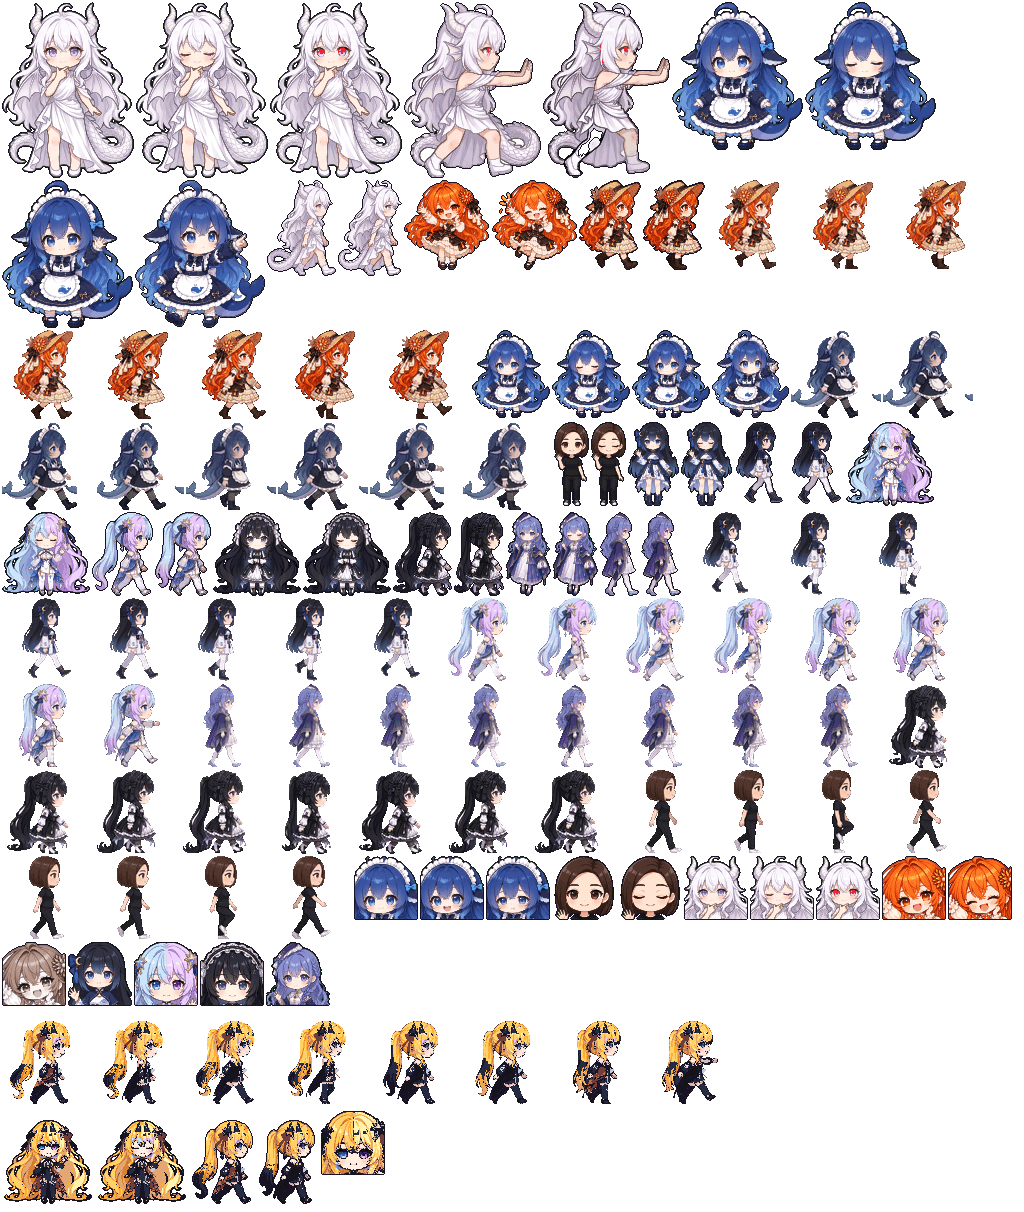
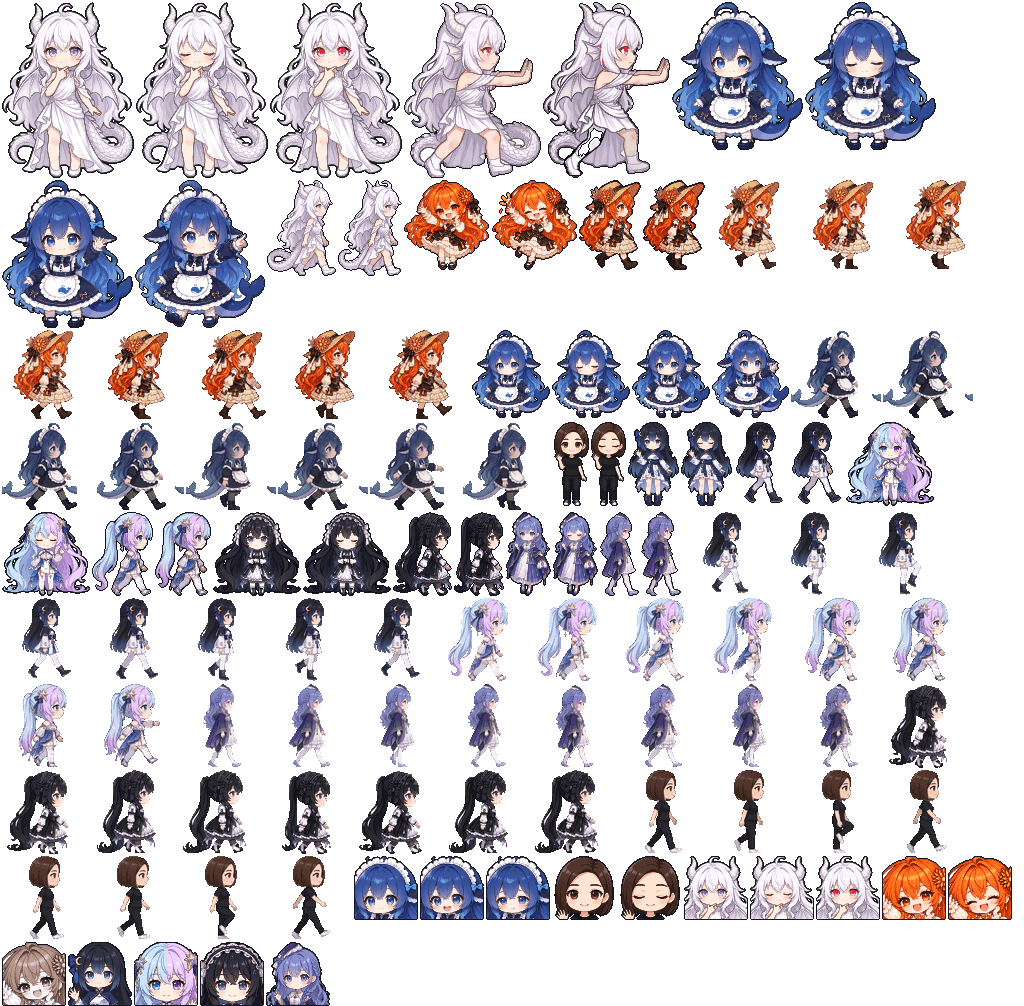
删掉 Grok 的造型：图集里那 13 格是 Gemini 换色派生的，成片尺寸下发糊
一次渲染截图里量过：正面/侧身 88×93 的格子放到 1280×720 的画面里，角看着像发梢、
斧形腰饰是一枚六个像素的小色块，认出是 Grok 全靠金发。整格重看一遍像「Gemini 换了衣服」，
于是把整套派生造型从这里撤掉，她的文字设定保留。

- 图集：删掉 grok_front_0/1、grok_side_0/1、walk_grok_0–7、p_grok 共 13 格，
  1024×1212 → 1024×1006，121 格 → 108 格；`npm run atlas:check` 逐字节校验通过
- 派生链：删 bake_grok.mjs 与 grok_data.js，bake_atlas.mjs 去掉对应的 import
- 引擎：CharId / CAST_SETS / SPEAKER_NAME / SPEAKER_PORTRAIT / film.mjs 的 CAST 去掉 grok；
  cast.test 的格数断言 121 → 108
- 文档：Grok 页第 2、4、9、10、11 节改写为「没有造型格，上不了画面」；总纲、设定索引、备选池
  （原 A1–A4 换成一条「整套造型待重做」）、番外MV 人物设定与设定表、素材许可、README 同步
- 角色预检复核：《童话镇》8 个角色 84 格、40 镜 4272 帧逐帧走过，没有点到不存在的格子

diff --git a/通用模板/engine/actors.ts b/通用模板/engine/actors.ts
@@ -1,4 +1,4 @@
-// 角色卡片：项目自带的九位轻像素角色（源数据在 通用模板/cast/source/sprites_data.js，烘焙成 assets/cast_atlas.png）
+// 角色卡片：项目自带的八位轻像素角色（源数据在 通用模板/cast/source/sprites_data.js，烘焙成 assets/cast_atlas.png）
 // 作为「3D 世界里的 2D 纸片」。对应 claude-animated-shorts 的 cast.ts / cardshade.ts：
 //   · 始终面向相机的 billboard，不进世界墨线
 //   · 受场景光染色（card tint），不自发光
@@ -17,7 +17,7 @@ import atlasJson from './assets/cast_atlas.json';
 import { FPS } from './timeline';
 import { rgb } from './kit';
 
-export type CharId = 'whale' | 'gpt' | 'claude' | 'doubao' | 'gemini' | 'kimi' | 'qwen' | 'zai' | 'grok';
+export type CharId = 'whale' | 'gpt' | 'claude' | 'doubao' | 'gemini' | 'kimi' | 'qwen' | 'zai';
 export type Wear = 'crown' | 'hood' | 'tophat' | 'bow' | 'tiara' | 'ears' | 'tail';
 type Rect = [number, number, number, number];
 interface Anchor { cx: number; top: number; hw: number }
@@ -136,7 +136,6 @@ export const CAST_SETS: Record<CharId, { walk: string; front: [string, string] }
   gemini: { walk: 'walk_gemini_', front: ['gemini_front_0', 'gemini_front_1'] },
   qwen: { walk: 'walk_qwen_', front: ['qwen_front_0', 'qwen_front_1'] },
   zai: { walk: 'walk_zai_', front: ['zai_front_0', 'zai_front_1'] },
-  grok: { walk: 'walk_grok_', front: ['grok_front_0', 'grok_front_1'] },
   doubao: { walk: 'walk_doubao_big_', front: ['doubao_cage_0', 'doubao_cage_1'] },
   gpt: { walk: 'gpt_fly_', front: ['gpt_boss_idle', 'gpt_boss_blink'] },
 };

diff --git a/通用模板/engine/project.ts b/通用模板/engine/project.ts
@@ -46,11 +46,11 @@ export interface ProjectDef {
 }
 
 export const SPEAKER_NAME: Record<CharId, string> = {
-  whale: '鲸鱼娘', gpt: 'GPT 龙娘', claude: 'Claude 大小姐', doubao: '豆包', gemini: 'Gemini', kimi: 'Kimi', qwen: '千问', zai: '智谱', grok: 'Grok',
+  whale: '鲸鱼娘', gpt: 'GPT 龙娘', claude: 'Claude 大小姐', doubao: '豆包', gemini: 'Gemini', kimi: 'Kimi', qwen: '千问', zai: '智谱',
 };
 /** 对话条默认头像（图集里的 64×64 头像格） */
 export const SPEAKER_PORTRAIT: Record<CharId, string> = {
-  whale: 'p_whale_neutral', gpt: 'p_gpt_neutral', claude: 'p_claude_neutral', doubao: 'p_doubao_neutral', gemini: 'p_gemini', kimi: 'p_kimi', qwen: 'p_qwen', zai: 'p_zai', grok: 'p_grok',
+  whale: 'p_whale_neutral', gpt: 'p_gpt_neutral', claude: 'p_claude_neutral', doubao: 'p_doubao_neutral', gemini: 'p_gemini', kimi: 'p_kimi', qwen: 'p_qwen', zai: 'p_zai',
 };
 
 /** 这部作品在画面上（字幕条、名牌、片名卡、片尾字）会出现的全部文字，带出处。镜头自己往 Canvas 上画的字不在这里，由预检另外收集 */

diff --git a/设定/人物/Grok.md b/设定/人物/Grok.md
@@ -3,7 +3,7 @@
 > **一句话**：先戳破借口，再动手；人已经难受时，玩笑停。
 > 这是她一个人的设定页。共用规矩：[`../AI娘设定总纲.md`](../AI娘设定总纲.md)。
 > 出处：研究原文第 2、3、10.2、11、13.2 节。ⓡ 现实机制 / ⓒ 社区归纳 / ⓞ 本系列原创。
-> **她有造型格了（2026-11-11 补齐）：金发、黑礼服、头顶两只角、腰上一枚斧形小饰。** 能上画面，但只当配角——来查证的人，不是主角、不是公主、不是反派主力。
+> **她目前没有可上画的造型。** 2026-11-11 曾用 Gemini 的格换色派生过一套（金发、黑礼服、角、斧形腰饰），放到成片尺寸上发糊、认不出，2026-11-12 已连同派生脚本从图集里删掉。现在只能写进文字设定，不能上画面。
 
 ## 1. 她是谁（ⓞ）
 
@@ -17,10 +17,9 @@
 
 - 别名：Grok娘、大小姐（与 Claude 的「大小姐」是两套，别混）。
 - 锚点：金发、黑色礼服、角和斧形装饰；有作品玩「首富爸爸」，那是该作品设定。
-- **图集格子**（`通用模板/engine/assets/cast_atlas.png`）：正面 `grok_front_0/1`、侧身 `grok_side_0/1`、步态 `walk_grok_0–7`、头像 `p_grok`。
-- **怎么来的**：形体借自同项目的 Gemini 格（同一套头身比例），换色成金发与黑礼服，再画上两只角、腰上一枚斧形小饰；生成脚本是 `通用模板/cast/source/bake_grok.mjs`，输出 `grok_data.js`。
-- **头上那 9 行留白是给角的**：她的格子高 93（别人 84 / 90），脚底基线不变，站在一起不会显高。
-- 配色口径：头发从 `#733e39` 到 `#fff3b0` 的六七档金色；礼服压到 `#141318`–`#3a4466` 的近黑四档；眼睛与皮肤沿用原格。
+- **图集里没有她的格**：2026-11-12 删掉了此前那 13 格（正面两格、侧身两格、八帧步态、头像一格），图集现在是八位角色、一〇八格。
+- **删掉的原因**：那套格是从 Gemini 的格换色派生的——形体借别人的，只换了发色与礼服色，再补两只角和一枚六像素的斧形腰饰；放到成片尺寸上是一团糊，角像发梢、斧头认不出来，站在真角色旁边像同一个人换了件衣服。
+- **要让她上画面**，得真画一套：同一套头身比例、八帧步态、正面两格、头像一格，按像素手绘后再进图集。这件事记在 `设定/备选池.md` 的 A1。
 
 ## 3. 习性：机制变道具（ⓡ → ⓞ）
 
@@ -33,9 +32,9 @@
 ## 4. 道具与动作
 
 - 手机、便签、放大镜、更正贴纸；腰上那枚**斧形小饰**是造型的一部分，不是武器（画面红线：斧头不当暴力）。
-- 能演的动作：`.front()` 待机（两格眨眼）、`.set('grok_side_0')` 侧身回望（引擎没有 `.side()` 这个快捷方法）、`.walkX()` 走过去问话、`.lift()` / `.tilt()` 起哄。
-- 造型预览：[`Grok-造型预览.png`](Grok-造型预览.png)（左边 Gemini 原格，右边 Grok 的 13 格，同一比例）。
-- **没有**的：坐下、递东西、指人、开合手机这一类的专属格；要演就换说法或换人，别在镜头里硬抖。
+- 现在一条都演不了：没有造型格，引擎里也没有 `grok` 这个角色 id（2026-11-12 一起删了）。
+- **没有**的：待机、眨眼、侧身、步态、头像，全都没有——不是缺几格，是整套没有。
+- 要拍「来查证的人」这条线，现阶段的做法是让别的角色代演（本鲸念到「网上有人说」、Kimi 要来源），或者先按上一节把造型画出来。
 
 ## 5. 说话
 
@@ -66,16 +65,16 @@
 
 ## 9. MV 线能演什么
 
-- 有造型格了，但两支现成 MV 都没给她留位置。要用她：先让她在 MV 里有一个「谁」的回答（来查证的人 / 报幕 / 递话的），再写 `shots/`。
-- 上画面的规矩：不戴冠、不站 C 位、不做主角的定型动作；一场最多两镜，多了就变成抢戏。
+- **现在上不了画面**：没有造型格，`shots/` 里写 `cast: 'grok'` 会在开渲前的预检里直接报错（这是对的）。
+- 真有了造型再谈用法：先回答她在这一支里「是谁」（来查证的人 / 报幕 / 递话的），再写镜头；不戴冠、不站 C 位、不做主角的定型动作；一场最多两镜。
 
 ## 10. 不许写成
 
 - 嘴臭当人设；斧头当暴力；把刻薄当永远正确。
 - 默认和龙娘是一对。
 - 报价格、报排名；把「所有人都重置了」当事实。
-- 给她临时加造型格、加生图（要改形象就改 `通用模板/cast/source/bake_grok.mjs` 再重建图集，不许拿生图直接贴进来）。
+- 拿生图直接贴进图集当造型（要上画面就按第 2 节手绘一套格，重建图集）。
 
 ## 11. 来源
 
-研究原文第 2 节（别名与反差）、第 3 节（查证与锐评）、第 10.2 节（不编第重置时钟）、第 11 节（习性卡与示例台词）、第 12.3 节（「记者的更正贴纸」这一原创提案）、第 13.2 节（出身：报刊亭）。造型格来源见 [`素材许可与来源.md`](../../素材许可与来源.md)：由 Gemini 格派生，上游那条「未核」同样适用。
+研究原文第 2 节（别名与反差）、第 3 节（查证与锐评）、第 10.2 节（不编第重置时钟）、第 11 节（习性卡与示例台词）、第 12.3 节（「记者的更正贴纸」这一原创提案）、第 13.2 节（出身：报刊亭）。造型部分见 [`素材许可与来源.md`](../../素材许可与来源.md)：2026-11-12 起图集里没有她的格。

diff --git a/设定/备选池.md b/设定/备选池.md
@@ -2,7 +2,7 @@
 
 > 想说但这一轮没做的事，全放这里，一条一行，写清楚「是什么 / 为什么先不做 / 真要做第一步动哪里」。
 > 立这份的原因是：讨论里冒出来的想法，如果只留在对话里，下一轮就没了。
-> 最后更新 2026-11-11（补 Grok 造型格那一轮）。
+> 最后更新 2026-11-12（撤掉 Grok 那套派生造型）。
 
 ## 使用规矩
 
@@ -17,13 +17,10 @@
 
 | # | 是什么 | 为什么先不做 | 真要做，第一步 |
 | --- | --- | --- | --- |
-| A1 | **Grok 的角再立体一点**：现在是小面积的深色角，远看像发梢；想要更明确的轮廓 | 已上图的版本在成片尺寸下能认出来，够用；再改要重烘图集 | 改 `通用模板/cast/source/bake_grok.mjs` 里的 `HORN_ROWS` 加宽一档，跑 `npm run atlas` 后肉眼看静帧 |
-| A2 | **Grok 的斧形腰饰**：现在是一枚 6×6 的小饰，静帧里几乎看不出是斧头 | 太小反而像杂点，宁可先留一枚「暗号」 | 同上，把 `axe` 那一段放大到 8×8 并换更亮的钢色 |
-| A3 | **Grok 的眼睛换色**：现在沿用 Gemini 的异色瞳（一蓝一紫） | 异色瞳好看，且改眼睛最容易毁脸 | 在 `bake_grok.mjs` 里把眼睛块按原明度套琥珀色（`#733e39` / `#feae34` / `#ffd166`） |
-| A4 | **Grok 的第二个头像格**：`p_grok_doubt`（狐疑）/ `p_grok_fix`（贴更正贴纸） | 名片位一集只露一次，一张够用 | 从 `p_grok` 派生，改眉眼与嘴角 |
+| A1 | **Grok 的整套造型**：她现在是有设定页、没有造型格的唯一一人 | 2026-11-12 把此前那 13 格（从 Gemini 的格换色派生）删了：成片尺寸下发糊，角像发梢、斧形腰饰看不出来，站在真角色旁边像换了衣服的同一个人 | 不再派生：按同一套头身比例手绘正面两格、侧身两格、八帧步态、头像一格，照 `cast/source/sprites_data.js` 的格式写进去，更新坐标表，跑 `npm run atlas` |
 | A5 | **每个角色的 6 段专属动作格**（7in1 的 `专属-*`，见 `动作库.md` 第二节末行） | 7 个角色 × 6 段 = 42 格，等于重做一遍角色图集 | 先挑一个角色、一段动作做样张，验证「同一套比例能画出来」再谈批量 |
 | A6 | **GLM（智谱）/ Qwen / Kimi 的招牌动作格**：现在三人只有待机 + 侧身 + 步态 | 同上，缺的是画格的人手，不是脚本 | 从 `zai_*` 里挑一格改成「举牌 / 翻书」，只做一格当试验 |
-| A7 | **图集扩容方案**：现在 1024×1212、121 格，底部已经到 1206，再加格就得继续加高 | 还没到撑爆的时候（一张 4 MB 级别的 PNG，显存无压力） | 记一条：单张超过 2048 高时改两张图集，`actors.ts` 的 `loadAtlas()` 要跟着改成多图 |
+| A6 | **图集扩容方案**：现在 1024×1006、一〇八格，底部已经到 1000，再加格就得继续加高 | 还没到撑爆的时候（一张 4 MB 级别的 PNG，显存无压力） | 记一条：单张超过 2048 高时改两张图集，`actors.ts` 的 `loadAtlas()` 要跟着改成多图 |
 
 ## B. 动作与道具（成片层）
 

diff --git a/番外MV/人物设定.md b/番外MV/人物设定.md
@@ -21,7 +21,7 @@
 | `doubao` | 豆包 / Seed | 产品原有形象与娘化分支并存 | 先陪着写出开头，再问要不要继续 | [`豆包.md`](../设定/人物/豆包.md) | 小红帽／红舞鞋 |
 | `qwen` | 千问 / 千姐 | 中式服装、扇子 | 先排哪一步，再动手 | [`千问.md`](../设定/人物/千问.md) | 疯帽子 |
 | `zai` | 狐狸 / 智谱 GLM | 黑发狐耳、黑白服装，部分版本带书或眼罩 | 先写完成标准，再做最小的一版 | [`狐狸.md`](../设定/人物/狐狸.md) | 彼得潘／杰克／侏儒怪 |
-| `grok` | Grok | 金发、黑色礼服、角与斧形装饰 | 先戳破借口，再动手；人已经难受时，玩笑停 | [`Grok.md`](../设定/人物/Grok.md) | 没上场（2026-11-11 才补造型格；要用她先在第 4 节那张空表里填形象） |
+| —（无造型格） | Grok | 金发、黑色礼服、角与斧形装饰（只写在设定里，画面上还没有） | 先戳破借口，再动手；人已经难受时，玩笑停 | [`Grok.md`](../设定/人物/Grok.md) | 没上场（造型 2026-11-12 撤下：图集里没有她的格，暂时上不了画面） |
 
 > 「基米／哈基米」是 Gemini 猫的二创叫法；**Kimi 是另一个人**，不许按谐音合并。ⓒ
 
@@ -109,14 +109,14 @@
 - **MV 用法**：彼得潘／杰克／侏儒怪这类「要算对账」的角色最适合她。
 - **边界**：**不为任何厂商编造精确的重置时间**；GLM 的国内价目本轮只有二手线索。
 
-### 2.9 Grok · `grok`
+### 2.9 Grok（暂无造型格）
 
 - **习性**：一有新消息就掏手机，发布前翻开来源卡；说错了把「未经确认」贴回自己额头。ⓒ→ⓞ
 - **道具**：手机、便签、放大镜、来源卡。
 - **跟谁有戏**：锐评龙姐和小克，也允许她们纠正自己；跟龙姐的关系可以是对手，也可以是好友。ⓒ
 - **台词**：「这个消息很劲爆——等一下，先让我看看是谁说的。」
 - **身世（ⓞ）**：信息嘈杂的报刊亭里长大，爱抢先抖机灵，后来学会给每条消息贴来源。
-- **MV 用法**：她只当配角——来查证的人；不戴金冠、不站 C 位、不当反派主力。造型 2026-11-11 才补齐（`通用模板/cast/source/bake_grok.mjs` 从 Gemini 格派生）。
+- **MV 用法**：暂时上不了画面——2026-11-12 撤掉了那套由 Gemini 格派生的造型（成片尺寸下发糊），图集里没有她的格。真要拍「来查证的人」，现在让本鲸或 Kimi 代演；等造型重画好再谈不戴金冠、不站 C 位、不当反派主力这些规矩。
 - **边界**：搜索工具可能另外收费；「热点风格」是二创，不保证事实准确。
 
 ## 3. 群像共用的三条表演规则（ⓞ）

diff --git a/设定/动作库.md b/设定/动作库.md
@@ -30,7 +30,7 @@
 | 工作（忙 / 卡 / 认输 / 完成） | `工作状态-忙碌点按`、`-原地踱步张望`、`-垂头叹气冒汗`、`-思考冒泡`、`-清点归档`、`-雀跃庆祝` | 踱步 = 小范围 `walkX` 来回；认输 = 垂头靠 `.tilt()`；庆祝 = `.lift()` + `.flash()`；**思考冒泡、清点归档要气泡或道具，现在没有** |
 | 碎碎念 | `碎碎念-发呆碎碎念`、`-对屏碎碎念`、`-擦桌碎碎念` | `.talk(T, true)` + 对话条；对着屏幕说的那种，机位放她身后 |
 | 额度 / 余额 | `余额-钱袋满溢` … `余额-分文不剩`（六档） | **不能拍钱袋**：画面红线不许余额条。改成米缸深浅、碗里剩多少、饭价牌翻面 |
-| 专属动作 | 每角色 6 段（Grok 是 `专属-X标志`、`专属-坏笑吐槽`、`专属-坐火箭`、`专属-太空漂浮`、`专属-星系`、`专属-黑洞`） | 都没有对应造型格（Grok 那 6 段也没有，她只有待机 / 侧身 / 步态）。真要，先加像素数据重建图集 |
+| 专属动作 | 每角色 6 段（Grok 是 `专属-X标志`、`专属-坏笑吐槽`、`专属-坐火箭`、`专属-太空漂浮`、`专属-星系`、`专属-黑洞`） | 都没有对应造型格（Grok 那 6 段也没有——她 2026-11-12 起连待机 / 侧身 / 步态都没有了）。真要，先加像素数据重建图集 |
 
 ## 三、能直接用现有造型演的
 
@@ -61,4 +61,4 @@
 
 - 动作名清单：`Houraiji9/ai-pet-7in1` 的 `assets/<角色>/webm/` 文件名（112 段，2026-11-11 读）。
 - 只借命名与分组，**没有使用它的任何画面**；它的素材是 CC BY-NC-SA 4.0（非商业），我们的成片不接。
-- 我们的造型格以 `通用模板/README.md`「九位角色与可用造型」为准；图集由 `通用模板/cast/source/` 重建，来源与许可另见 [`素材许可与来源.md`](../素材许可与来源.md)。
+- 我们的造型格以 `通用模板/README.md`「八位角色与可用造型」为准；图集由 `通用模板/cast/source/` 重建，来源与许可另见 [`素材许可与来源.md`](../素材许可与来源.md)。

diff --git a/素材许可与来源.md b/素材许可与来源.md
@@ -9,7 +9,6 @@
 | --- | --- | --- | --- |
 | 引擎 `通用模板/engine`、命令行 `通用模板/cli`、测试、文档 | 本仓库自己写 | 仓库根**没有 LICENSE 文件** | 待定：要发就把许可补上 |
 | 角色像素图集 `通用模板/engine/assets/cast_atlas.png` / `.json` | 由 `通用模板/cast/source/sprites_data.js` 等重建；源数据写着头注释「Source assets: `assets/ai-girls/{full-v9,walk-v14,lyric-action-v13,dance-v11,whale-pet-study}`」——那批原图从来不在本仓库，2026-11-12 整理 MV 分支时连旧存档一起删了（见 `媒体说明.md`） | **未核** | 最重要的待办。见下面第二节 |
-| Grok 的 13 格（`grok_*`、`walk_grok_0–7`、`p_grok`） | 由本仓库的 Gemini 格派生（`通用模板/cast/source/bake_grok.mjs`：换色 + 画角与斧形腰饰），没有引入新素材 | 跟母本同一状况 | 上游那条「未核」同样盖着她 |
 | 字体 站酷快乐体 ZCOOL KuaiLe | `通用模板/engine/assets/fonts/` | **OFL 1.1**（同目录 `OFL-ZCOOLKuaiLe.txt`） | 已明确，可随片分发，保留许可文件 |
 | 《童话镇》原曲录音 | `番外MV/童话镇/素材/童话镇.m4a`（2026-11-12 从原曲 mp4 无损转存的音轨；mp4 已出库） | **无授权记录** | 未核；公开前必须自己确认 |
 | 《反乌托邦》复刻源码 | `参考资料/参考MV/反乌托邦/`（用户 2026-11-12 上传的 `opus5.5max+fable5.2.zip` 原样解开） | 别人写的代码，**没有许可声明**；里面的 `src/mv/assets/song.ts` 还内嵌了这首歌的音轨 | 只当源码备查，不当工程用、也不算参考案例；歌没有授权，成片不许公开 |

diff --git a/设定/AI娘设定总纲.md b/设定/AI娘设定总纲.md
@@ -60,7 +60,7 @@ C 级的具体名单见 `参考资料/项目调研/Agent-Reach研究/ai-girls-re
 ### 编制
 
 - **固定住户三位**：本鲸、笨鱼、老大（第 2 节）。
-- **客人七位**：龙娘、小克、猫、Kimi、狐狸、千问、豆包（第 3 节）。Grok 是第八位客人，2026-11-11 补上了造型格（金发 / 黑礼服 / 角 / 斧形腰饰），现在能上画面了。
+- **客人七位**：龙娘、小克、猫、Kimi、狐狸、千问、豆包（第 3 节）。Grok 是第八位客人。2026-11-11 曾用 Gemini 的格派生过一套造型，成片尺寸下发糊，2026-11-12 已从图集删除；她现在只有文字设定，上不了画面。
 - **一集一张新脸**：Day 线「一天一客」，其余人只在台词里被转述，或出现在纸条、夹页、名牌上。
 - 谁上场要用户点名 + 有获准文件；没有的只许被提到。
 
@@ -107,7 +107,7 @@ C 级的具体名单见 `参考资料/项目调研/Agent-Reach研究/ai-girls-re
 | 狐狸（智谱 GLM） | 先写完成标准，再做最小的一版 | [`人物/狐狸.md`](人物/狐狸.md) |
 | 千问（Qwen） | 先排哪一步，再动手 | [`人物/千问.md`](人物/千问.md) |
 | 豆包（Seed） | 先陪着写出开头，再问要不要继续 | [`人物/豆包.md`](人物/豆包.md) |
-| Grok | 先戳破借口，再动手；人难受时玩笑停。**有造型格了，但只当配角** | [`人物/Grok.md`](人物/Grok.md) |
+| Grok | 先戳破借口，再动手；人难受时玩笑停。**造型已撤，暂时上不了画面** | [`人物/Grok.md`](人物/Grok.md) |
 
 ### 换新客人怎么办
 

diff --git a/番外MV/设定表.md b/番外MV/设定表.md
@@ -3,8 +3,8 @@
 **这条线的设定和 Day 线不是一套。** Day 是这间房里的日常口播；MV 是「这个人在这首歌里演谁」——性格还是那套，但**形象跟着每支 MV 换**。
 
 **一人一页的完整设定在 [`设定/人物/`](../设定/人物/)**（索引 [`设定/README.md`](../设定/README.md)），共用的规矩在 [`设定/AI娘设定总纲.md`](../设定/AI娘设定总纲.md)；九位人物一张汇总表（习性 / 道具 / 关系 / 台词 / 身世 / MV 用法 / 边界）在 [`人物设定.md`](人物设定.md)。这张表只做一件事：**把习性对到每支 MV 的形象上**。
-造型格、头像格的编号见 [`通用模板/README.md`](../通用模板/README.md) 的「九位角色与可用造型」；这里只管人。
-Grok 2026-11-11 才补上造型格，本表里的两支 MV（童话镇、坏女孩）都没有她的位置；要用她，先在第 4 节那张空表里给她填一个形象。
+造型格、头像格的编号见 [`通用模板/README.md`](../通用模板/README.md) 的「八位角色与可用造型」；这里只管人。
+Grok 目前没有可上画的造型（2026-11-11 补过一套派生格，2026-11-12 因为糊撤掉了），本表里的两支 MV（童话镇、坏女孩）都没有她的位置。
 
 **参照哪一支片子**：只有一支——[`童话镇/README.md`](童话镇/README.md)。新 MV 的空间做法、切镜节奏、卡点写法都照它看；别的片子（包括《坏女孩》两版）是自己走过的路，不当参照。
 

diff --git a/设定/README.md b/设定/README.md
@@ -27,7 +27,7 @@
 | 狐狸 | 先写完成标准，再做最小的一版 | [`人物/狐狸.md`](人物/狐狸.md) |
 | 千问 | 先排哪一步，再动手 | [`人物/千问.md`](人物/千问.md) |
 | 豆包 | 先陪着写出开头，再问要不要继续 | [`人物/豆包.md`](人物/豆包.md) |
-| Grok | 先戳破借口；造型格 2026-11-11 补齐，戏份仍是配角 | [`人物/Grok.md`](人物/Grok.md) |
+| Grok | 先戳破借口；造型 2026-11-12 撤下（糊），暂时上不了画面 | [`人物/Grok.md`](人物/Grok.md) |
 
 每页都是同一个结构：一句话 → 三条行为规则 → 视觉 → 机制变道具 → 道具与动作 → 说话 → 关系 → 成长弧 → Day 怎么用 → MV 能演什么 → 不许写成 → 来源。照这个格式扩新角色。
 
@@ -50,3 +50,4 @@
 | 2026-11-11 | Grok 补造型格（Grok 页第 2、4、9、10 节改写）；本轮没做的事收进 [`备选池.md`](备选池.md) |
 | 2026-11-11 | 补 `动作库.md`：借 ai-pet-7in1 的 112 个动作名做词表，标出能演 / 要新做的；同批补 `素材许可与来源.md` |
 | 2026-11-11 | MV 线改成「习性对到每支 MV 的形象」：《童话镇》《坏女孩》《坏女孩（Fable 版）》各一张映射表，新 MV 给空表模板 |
+| 2026-11-12 | 撤掉 Grok 的造型：图集里那 13 格（由 Gemini 格派生）在成片尺寸下发糊，连同派生脚本一起删；她的设定页保留，标注「暂无可上画造型」 |
